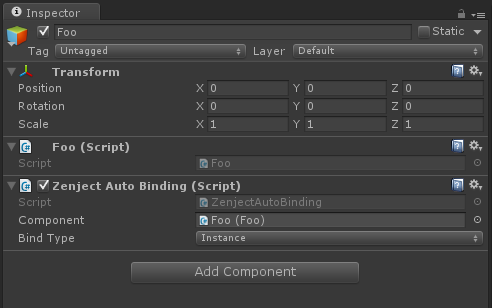
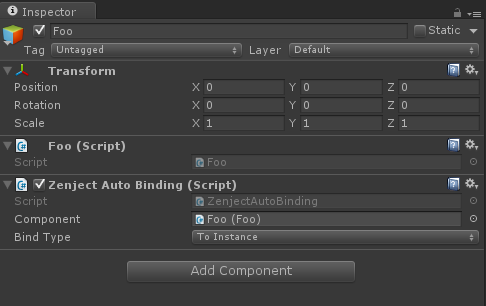
Renamed the enum in ZenjectAutoBinding

diff --git a/UnityProject/Assets/Zenject/Source/Util/AutoBindInstaller.cs b/UnityProject/Assets/Zenject/Source/Util/AutoBindInstaller.cs
@@ -41,14 +41,14 @@ namespace Zenject
                     continue;
                 }
 
-                if (bindType == ZenjectAutoBinding.BindTypes.Instance
-                    || bindType == ZenjectAutoBinding.BindTypes.All)
+                if (bindType == ZenjectAutoBinding.BindTypes.ToInstance
+                    || bindType == ZenjectAutoBinding.BindTypes.ToInstanceAndInterfaces)
                 {
                     Container.Bind(component.GetType()).ToInstance(component);
                 }
 
-                if (bindType == ZenjectAutoBinding.BindTypes.Interfaces
-                    || bindType == ZenjectAutoBinding.BindTypes.All)
+                if (bindType == ZenjectAutoBinding.BindTypes.ToInterfaces
+                    || bindType == ZenjectAutoBinding.BindTypes.ToInstanceAndInterfaces)
                 {
                     Container.BindAllInterfacesToInstance(component);
                 }

diff --git a/UnityProject/Assets/Zenject/Source/Util/ZenjectAutoBinding.cs b/UnityProject/Assets/Zenject/Source/Util/ZenjectAutoBinding.cs
@@ -59,9 +59,9 @@ namespace Zenject
 
         public enum BindTypes
         {
-            Instance,
-            Interfaces,
-            All,
+            ToInstance,
+            ToInterfaces,
+            ToInstanceAndInterfaces,
         }
     }
 }

diff --git a/README.md b/README.md
@@ -2405,7 +2405,7 @@ Then our installer becomes:
 
 Note that when using the `ZenjectAutoBinding` MonoBehaviour you always need to add `Container.Install<AutoBindInstaller>()` to one of the installers in your scene.
 
-When using `ZenjectAutoBinding` this way, it will bind `Foo` using the `ToInstance` method, so it is equivalent to the first example where we did this:
+When using `ZenjectAutoBinding` this way, by default it will bind `Foo` using the `ToInstance` method, so it is equivalent to the first example where we did this:
 
     Container.BindInstance(_foo);
 
@@ -2413,7 +2413,7 @@ Also note that if we duplicate this game object to have multiple game objects wi
 
 Also note that the `ZenjectAutoBinding` component contains a `Bind Type` property in its inspector.  By default this simply binds the instance as shown above but it can also be set to the following:
 
-1 - `Interfaces`
+1 - `ToInterfaces`
 
 This bind type is equivalent to the following:
 
@@ -2421,7 +2421,7 @@ This bind type is equivalent to the following:
 
 Note however, in this case, that `GameRunner` must ask for type `IFoo` in its constructor.  If we left `GameRunner` asking for type `Foo` then Zenject would throw exceptions, since the `BindAllInterfacesToInstance` method only binds the interfaces, not the concrete type.  If you want the concrete type as well then you can use:
 
-2 - `All`
+2 - `ToInstanceAndInterfaces`
 
 This bind type is equivalent to the following:
 
